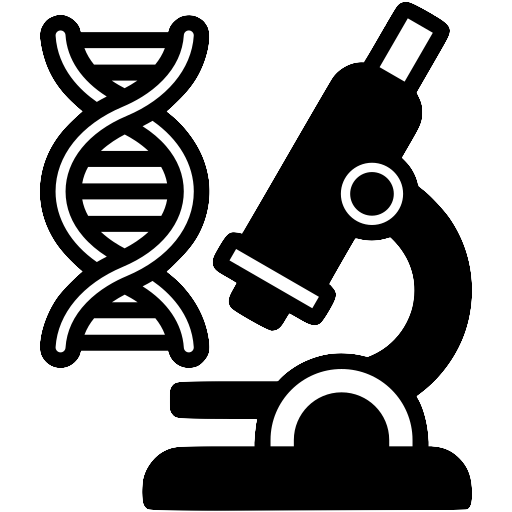
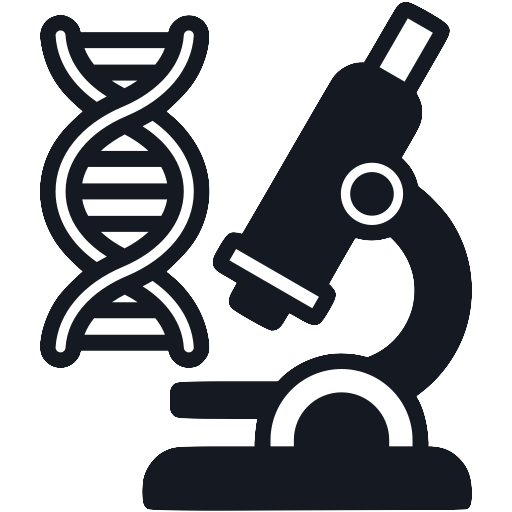
circular links

diff --git a/dist/assets/index-295d4eea.css b/dist/assets/index-295d4eea.css
@@ -1,0 +1,1 @@
+:root{--primary: #002F6C;--secondary: #006789;--tertiary: #A7C6ED;--bg: #F8F9F6;--text: #1f2937;--point: #151a22;--card-bg: #f9fafb}body{display:flex;flex-direction:column;align-items:center;justify-content:center;text-align:center;font-family:Inter,sans-serif;color:var(--text);line-height:1.6;margin:0}.site-header{width:100%;display:flex;flex-direction:column;background-color:var(--primary);color:var(--bg);position:relative;box-sizing:border-box;padding-top:1rem}.title,.subtitle{line-height:1}.nav-bar{max-width:1200px;display:flex;padding-bottom:.5rem;padding-left:3rem}.nav-links{display:flex;align-items:center;gap:.3rem}.nav-links a{color:var(--bg);text-decoration:none;font-size:.95rem;font-weight:500;transition:color .2s ease}.nav-links a:hover,.nav-links a.active{color:var(--text-main)}.nav-links a.nav-cta{padding:.5rem 1rem;border-radius:3px}.nav-links a.nav-cta:hover{background-color:#ffffff1a;border-color:#fff3}.circular-links-section{display:flex;align-items:center;justify-content:center;min-height:500px;overflow:hidden;margin:2rem 0;padding-top:7rem}.circle-track{position:relative;width:600px;height:600px;border-radius:50%;border:2px dashed var(--tertiary)}.center-text{position:absolute;top:0;right:0;bottom:0;left:0;display:flex;align-items:center;justify-content:center;color:#94a3b8;font-weight:500;letter-spacing:.1em;font-size:14px}.circle-img-link{position:absolute;transform:translate(-50%,-50%);width:32%;height:32%;border-radius:50%;transition:all .3s ease-in-out}#code-icon{width:25%;height:25%}#lab-icon{width:27%;height:27%}.circle-img-link:hover{transform:translate(-50%,-50%) scale(1.25);z-index:10}.circle-img-link img{width:100%;height:100%;object-fit:cover}.section-title{text-align:left;padding:2rem 1rem 1rem 3rem;margin:0rem}.intro-text{text-align:justify;padding-left:4rem;padding-right:4rem}.grid{display:flex;align-items:center;justify-content:center;grid-template-columns:repeat(auto-fit,minmax(300px,1fr));gap:2rem;padding-left:2rem;padding-right:2rem}.card{width:20%;background:var(--card-bg);border:1px solid #e5e7eb;border-radius:12px;padding:1.5rem;transition:transform .2s}.card:hover{transform:translateY(-5px);border-color:var(--primary)}.tag{background:#dbeafe;color:var(--primary);font-size:.75rem;padding:.2rem .6rem;border-radius:999px;margin-right:.5rem}

diff --git a/dist/index.html b/dist/index.html
@@ -4,8 +4,8 @@
     <meta charset="UTF-8">
     <title>Name | AI & Biomedical Portfolio</title>
     
-  <script type="module" crossorigin src="/assets/index-1c2c10ba.js"></script>
-  <link rel="stylesheet" href="/assets/index-4edf9eb6.css">
+  <script type="module" crossorigin src="/assets/index-f3ee767d.js"></script>
+  <link rel="stylesheet" href="/assets/index-295d4eea.css">
 </head>
 <body>
     <header class="site-header">
@@ -33,7 +33,7 @@
                 
                 <!-- Image 2: Bottom Right -->
                 <a href="https://github.com" target="_blank" rel="noopener noreferrer" class="circle-img-link" id="code-icon" style="left: calc(50% + (300px * 0.866)); top: calc(50% + (300px * 0.5));">
-                    <img src="/assets/code-f9ea38fe.png">
+                    <img src="/assets/code-f2ae0886.png">
                 </a>
                 
                 <!-- Image 3: Bottom Left -->

diff --git a/src/style.css b/src/style.css
@@ -86,7 +86,7 @@ body {
     min-height: 500px;
     overflow: hidden;
     margin: 2rem 0;
-    padding-top: 7rem;
+    padding-top: 7.1rem;
 }
 
 /* The dashed circular track */
